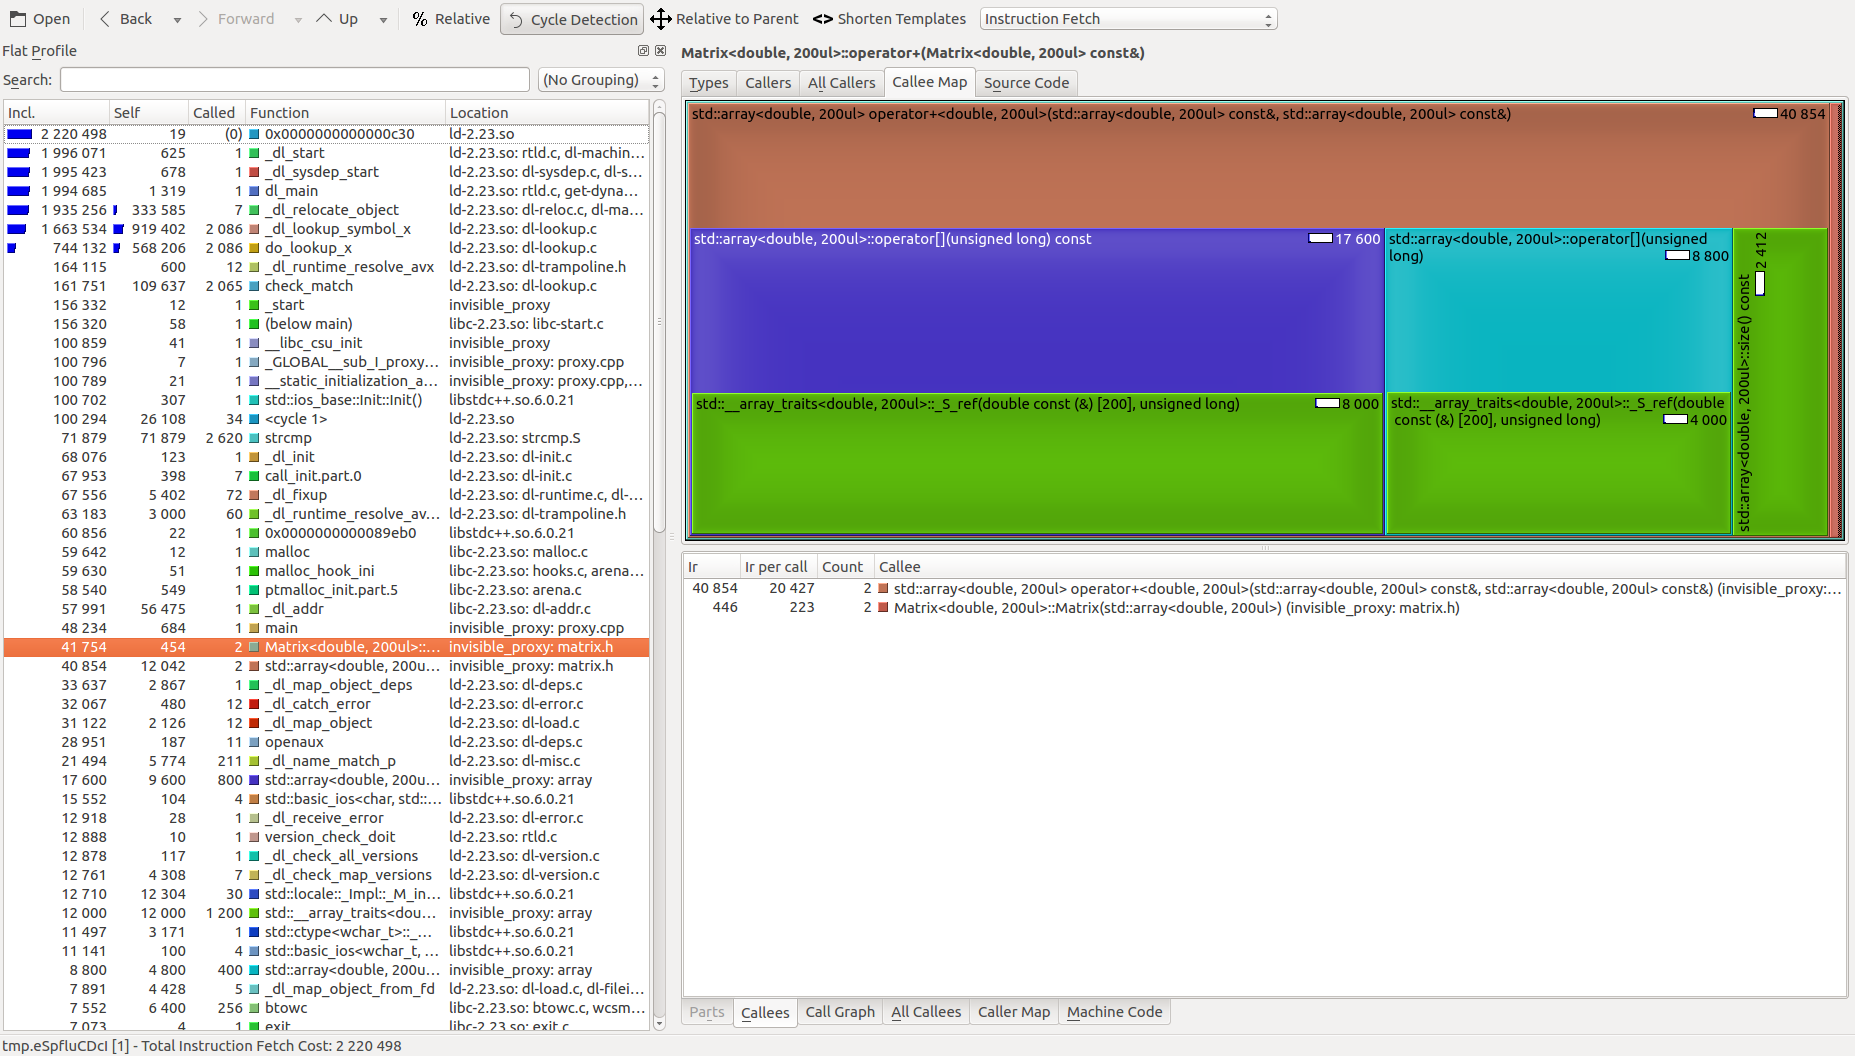
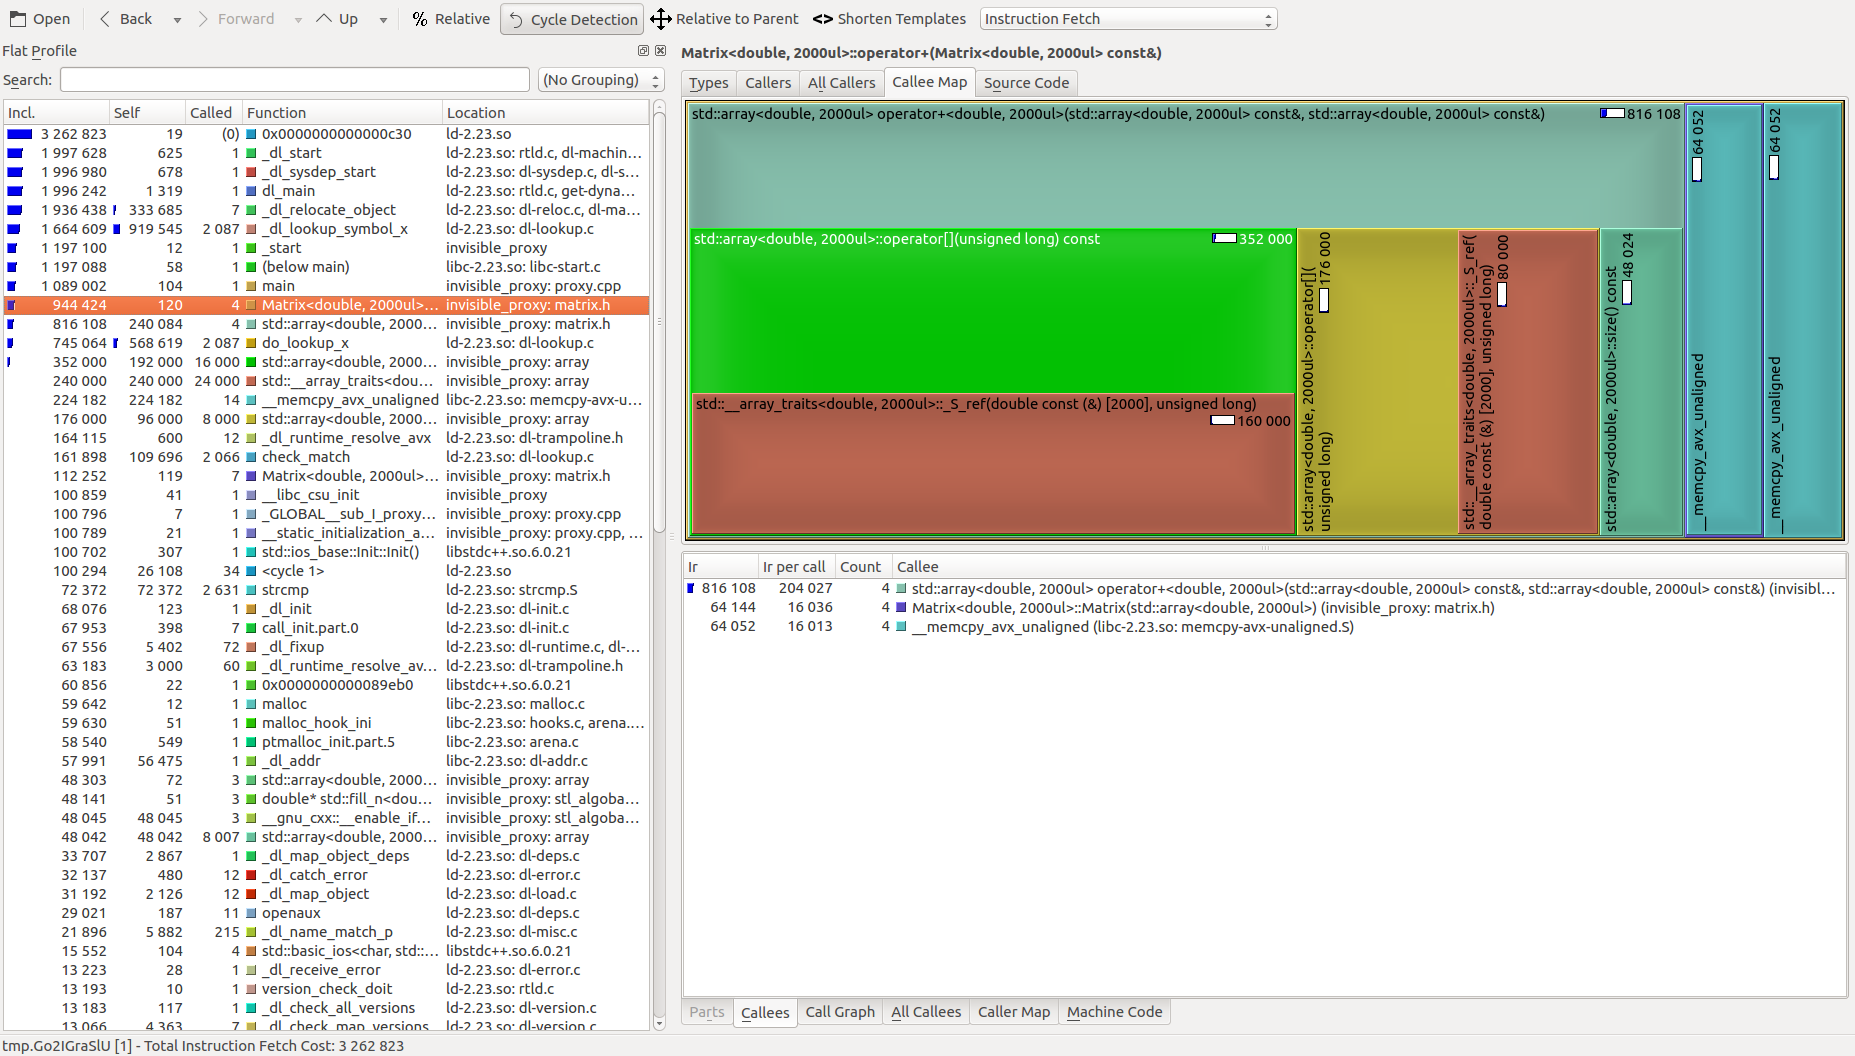
Increase array size and make expression longer
For profile purpose

diff --git a/proxy.cpp b/proxy.cpp
@@ -3,7 +3,7 @@
 #include <string>
 #include <matrix.h>
 
-#define SIZE 200
+#define SIZE 2000
 
 using Matrix2f = Matrix<double, SIZE>;
 
@@ -23,7 +23,7 @@ int main()
 	Matrix2f mat_b{std::move(bb)};
 	Matrix2f mat_c{std::move(cc)};
 
-	const auto sum = mat_a + mat_b + mat_c;
+	const auto sum = mat_a + mat_a + mat_a + mat_b + mat_c;
 
 	log(sum);
 }

diff --git a/includes/matrix.h b/includes/matrix.h
@@ -46,7 +46,6 @@ class Matrix
 template <typename T, size_t dim_w>
 std::ostream& operator<<(std::ostream& os, const Matrix<T, dim_w>& mat)
 {
-	log("specalized");
 	std::for_each(mat.row().begin(), mat.row().end(), [&os](const auto& v){os<<v<<",";});
 	return os;
 }
